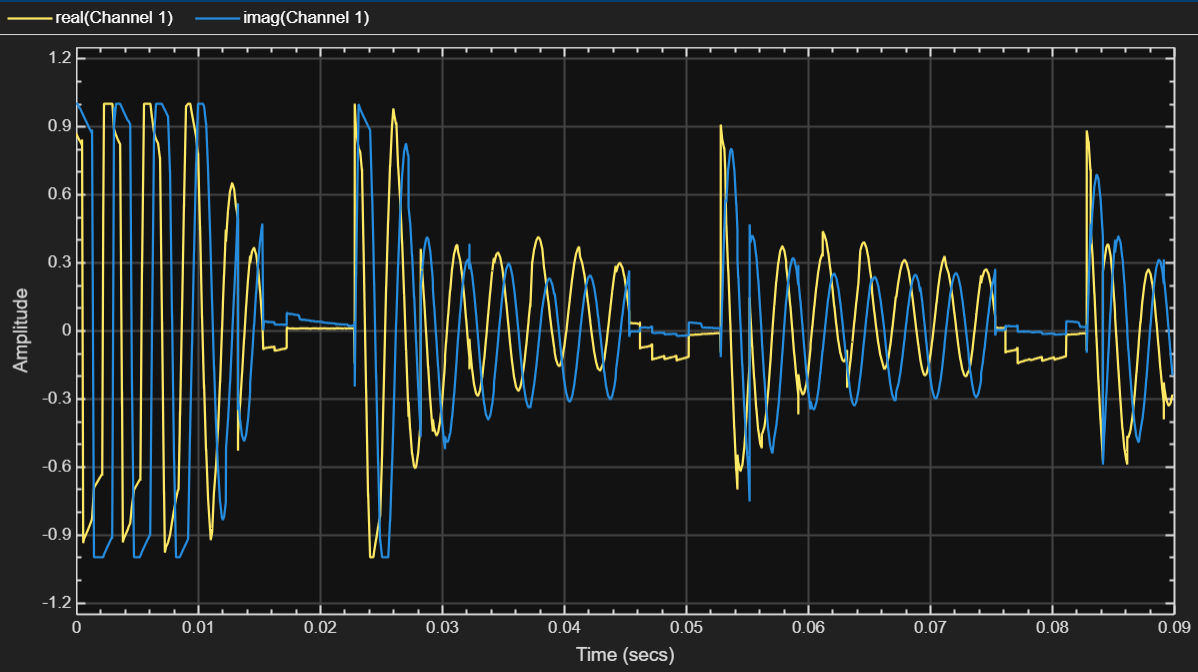
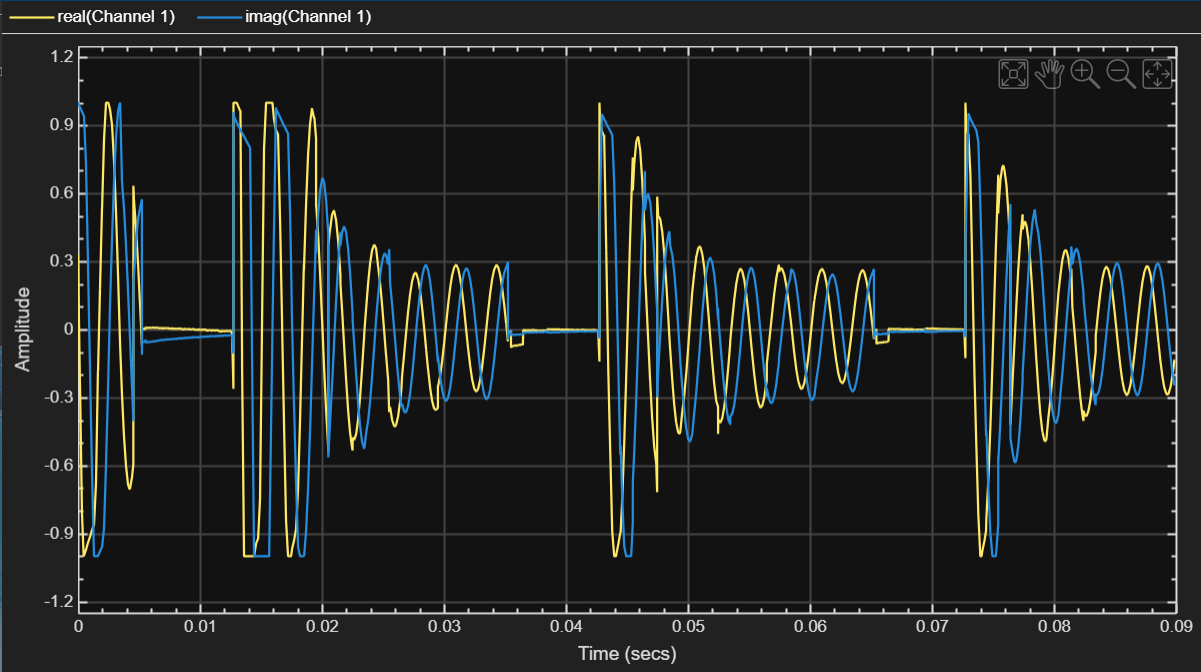
Saving figure updates

Changed region(s): [[0.0, 0.0, 1.0, 0.9688], [0.4942, 0.9688, 0.5559, 1.0]]

diff --git a/2/lab_report.tex b/2/lab_report.tex
@@ -156,6 +156,9 @@ TODO: NEED TO ADD WHAT THE AD9361-PHY DOES!
 
 % Results and discussion of the laboratory experiment, including captured outputs, observations, and responses to laboratory questions.
 
+\subsection{MATLAB Loopback}
+
+
 \subsection{GNU Radio Loopback}
 
 We use the GNU Radio flowchart shown in Figure \ref{fig::gnu_radio_loopback_flowchart0} to perform a loopback test. We start the experiment by reviewing the properties of the PlutoSDR blocks (both transmit and receive). Relevant properties for each block are displayed in Figures \ref{fig::general_attributes_pluto_sdr_sink} - \ref{fig::filter_attributes_pluto_sdr_source}.

diff --git a/2/code/loopback.m b/2/code/loopback.m
@@ -1,6 +1,6 @@
 % Pluto Gain Source Configuration
 gainSource = 'AGC Slow Attack'; %AGC Fast Attack'; % Default is 'AGC Slow Attack';
-gain = 30; % Default is 10
+gain = 10; % Default is 10
 
 % Desired Frequency
 freq = 300;
